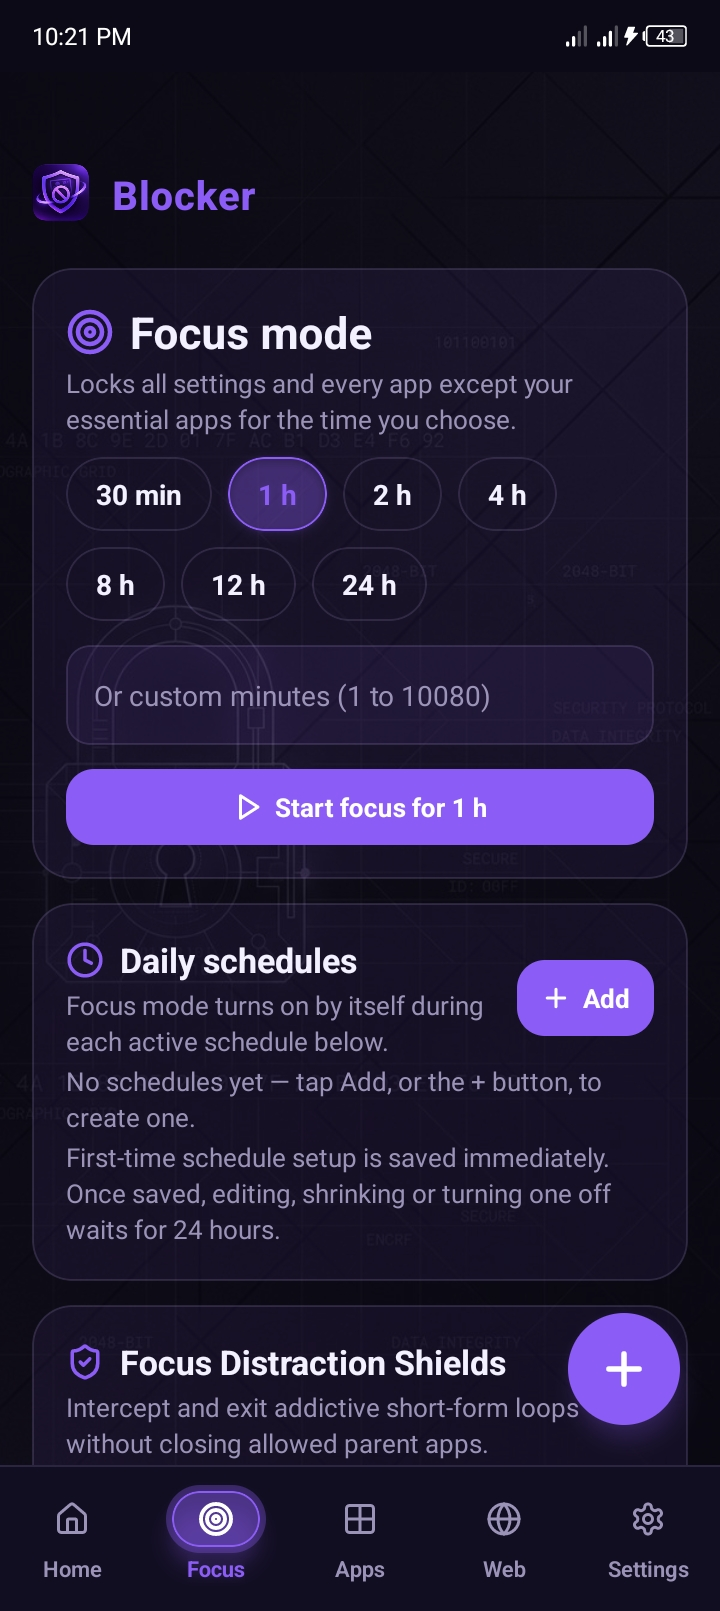
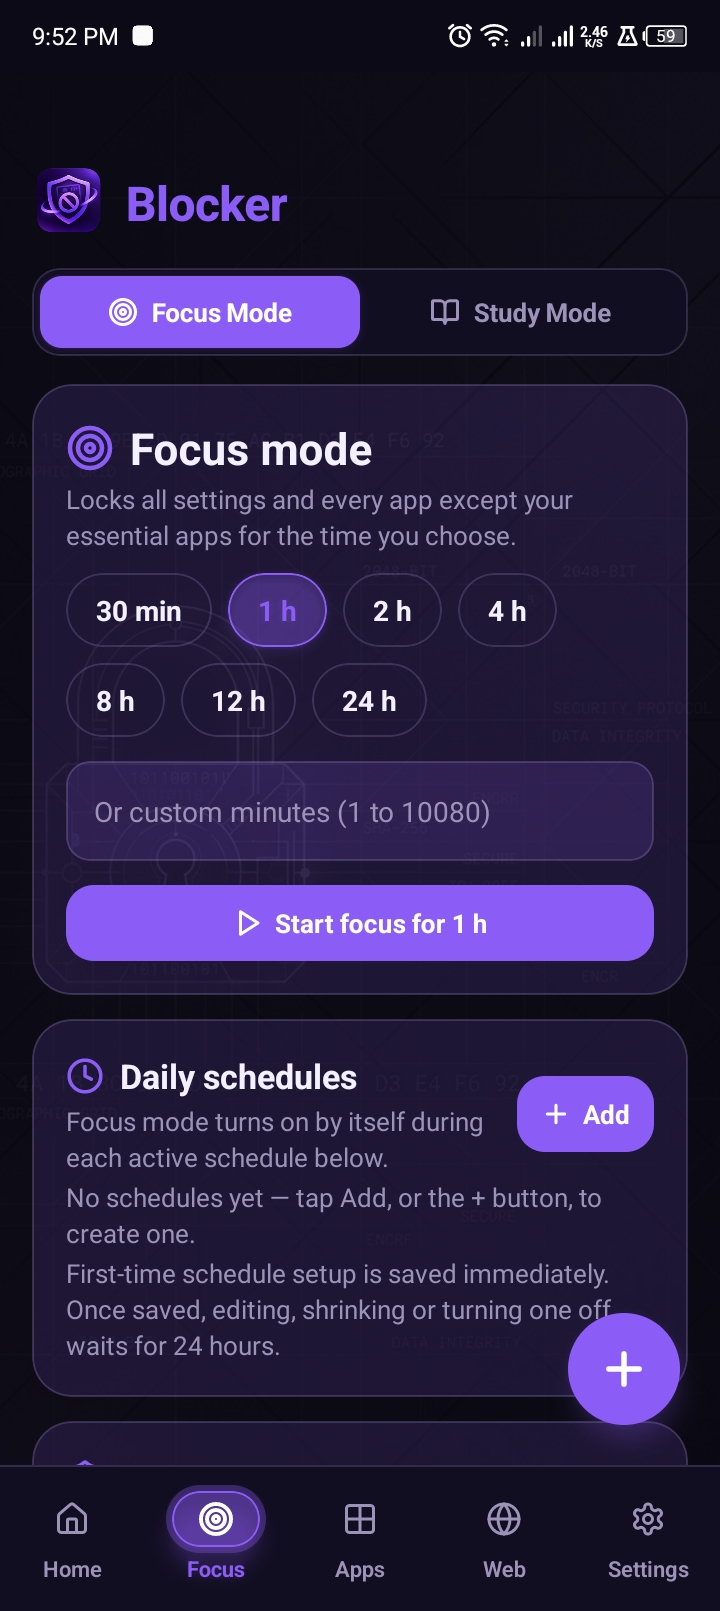
docs: update screenshots and add study mode preview to README

diff --git a/README.md b/README.md
@@ -72,7 +72,7 @@ Blocker runs entirely on-device: no remote DNS, no tracking servers, no telemetr
   - **Granular Distraction Shields:** Independent toggles for YouTube Shorts, Instagram Reels, and Facebook Reels without breaking main app feeds.
   - **Offline Content Database:** Fast, local, obfuscated adult domain database with custom domain blocklists and keyword whitelisting.
 - **In-App Updater & Security Verification:**
-  - **Automated Update Checks:** Checks for official GitHub releases every 24 hours with in-app changelog viewer and direct APK installer.
+  - **Automated Update Checks:** Checks for official GitHub releases on an active 2-hour cycle (with 24-hour backoff if an update is pending) with in-app changelog viewer and direct APK installer.
   - **Package Identity Verification:** Enforces strict package name validation (`pi.packageName == rc.packageName`) before invoking Android package installer on downloaded APKs.
   - **URL Sanitization:** Release links are strictly validated against official GitHub repositories.
   - **Automatic Storage Cleanup:** Purges cached APK files immediately upon successful installation.
@@ -95,29 +95,34 @@ Blocker runs entirely on-device: no remote DNS, no tracking servers, no telemetr
       <sub>Instant distraction-free sessions with preset or custom timers.</sub>
     </td>
     <td align="center" width="33%">
-      <img src="ScreenShots/set-daily-schedule.jpg" width="220" alt="Daily schedules" /><br/>
-      <b>Daily Schedules</b><br/>
-      <sub>Automate recurring focus blocks with precise time pickers.</sub>
+      <img src="ScreenShots/study-mode.jpg" width="220" alt="Study mode" /><br/>
+      <b>Study Mode (Lockdown)</b><br/>
+      <sub>Aggressive phone lockdown, custom intervals, DND, and quick settings shield.</sub>
     </td>
   </tr>
   <tr>
     <td align="center" width="33%">
+      <img src="ScreenShots/set-daily-schedule.jpg" width="220" alt="Daily schedules" /><br/>
+      <b>Daily Schedules</b><br/>
+      <sub>Automate recurring focus blocks with precise time pickers.</sub>
+    </td>
+    <td align="center" width="33%">
       <img src="ScreenShots/block-shots-reels.jpg" width="220" alt="Distraction shields" /><br/>
       <b>Distraction Shields</b><br/>
-      <sub>Exit YouTube Shorts, Instagram Reels, and Explore feeds automatically.</sub>
+      <sub>Exit YouTube Shorts, Instagram Reels, and Facebook video feeds automatically.</sub>
     </td>
     <td align="center" width="33%">
       <img src="ScreenShots/block-app-page.jpg" width="220" alt="App blocker" /><br/>
       <b>Apps &amp; Scans</b><br/>
       <sub>Block installed apps outright or exempt safe apps from screen scanning.</sub>
     </td>
+  </tr>
+  <tr>
     <td align="center" width="33%">
       <img src="ScreenShots/set-usage-limit.jpg" width="220" alt="Usage limit" /><br/>
       <b>Usage Limits</b><br/>
       <sub>Enforce maximum daily screen time per app protected by delay locks.</sub>
     </td>
-  </tr>
-  <tr>
     <td align="center" width="33%">
       <img src="ScreenShots/check-blocked-page.jpg" width="220" alt="Web and keywords" /><br/>
       <b>Web &amp; Keywords</b><br/>
@@ -128,10 +133,12 @@ Blocker runs entirely on-device: no remote DNS, no tracking servers, no telemetr
       <b>Settings &amp; Shield</b><br/>
       <sub>Uninstall shield, wireless debugging locks, and 1-30 day delay timers.</sub>
     </td>
-    <td align="center" width="33%">
+  </tr>
+  <tr>
+    <td align="center" colspan="3">
       <img src="ScreenShots/update-app-feature.jpg" width="220" alt="App update feature" /><br/>
       <b>In-App Updater</b><br/>
-      <sub>Check GitHub releases, view changelogs, and install APK updates directly.</sub>
+      <sub>Automated 2-hour update checks, in-app changelog viewer, and direct APK installation.</sub>
     </td>
   </tr>
 </table>
